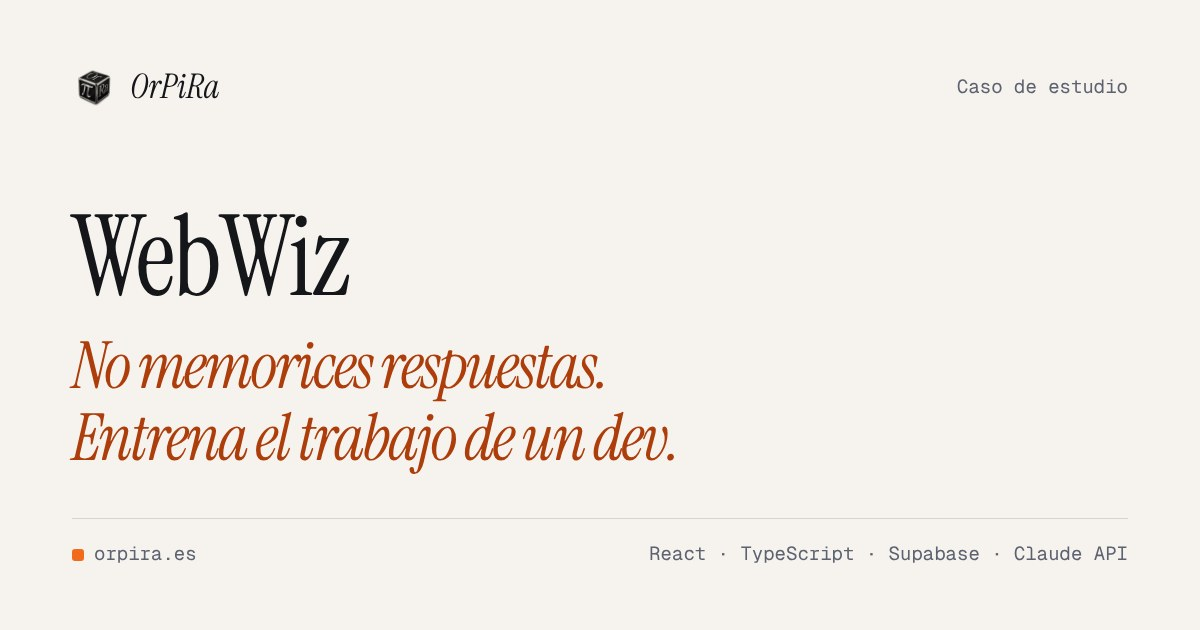
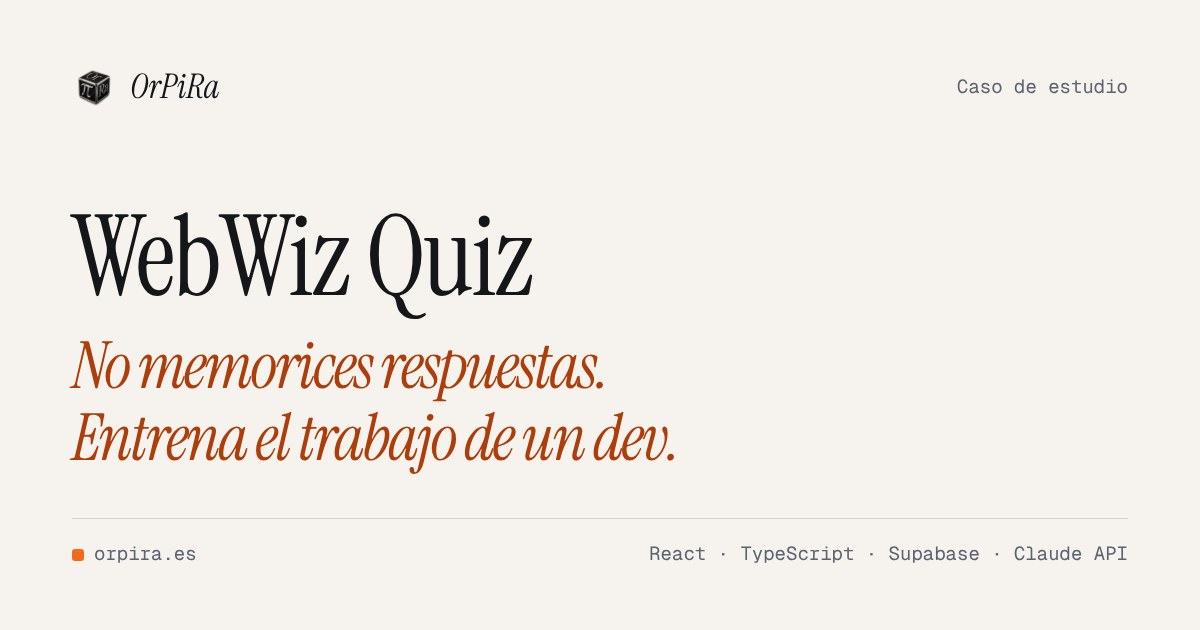
refactor(casos): nuevo orden — Private Balance, WebWiz Quiz, PRL Master
- WebWiz pasa a llamarse WebWiz Quiz, como en la propia app
- La intro de casos sigue el nuevo orden

Claude-Session: https://claude.ai/code/session_0176F6aikQzWDDJCYPpnzSP9

Changed region(s): [[0.3083, 0.3317, 0.4625, 0.5127]]

diff --git a/src/data/home.ts b/src/data/home.ts
@@ -86,7 +86,7 @@ export const services: Service[] = [
 			"Supabase o PostgreSQL, desplegado en Vercel",
 			"Documentación y traspaso",
 		],
-		example: "Private Balance · WebWiz",
+		example: "Private Balance · WebWiz Quiz",
 		format: null,
 		pendingHint: "Formato y plazo típico de un MVP",
 	},
@@ -100,7 +100,7 @@ export const services: Service[] = [
 			"Control de costes y de privacidad de los datos",
 			"Revisión humana donde el resultado importa",
 		],
-		example: "WebWiz",
+		example: "WebWiz Quiz",
 		format: null,
 		pendingHint: "Formato (auditoría, piloto, integración) y plazo",
 	},
